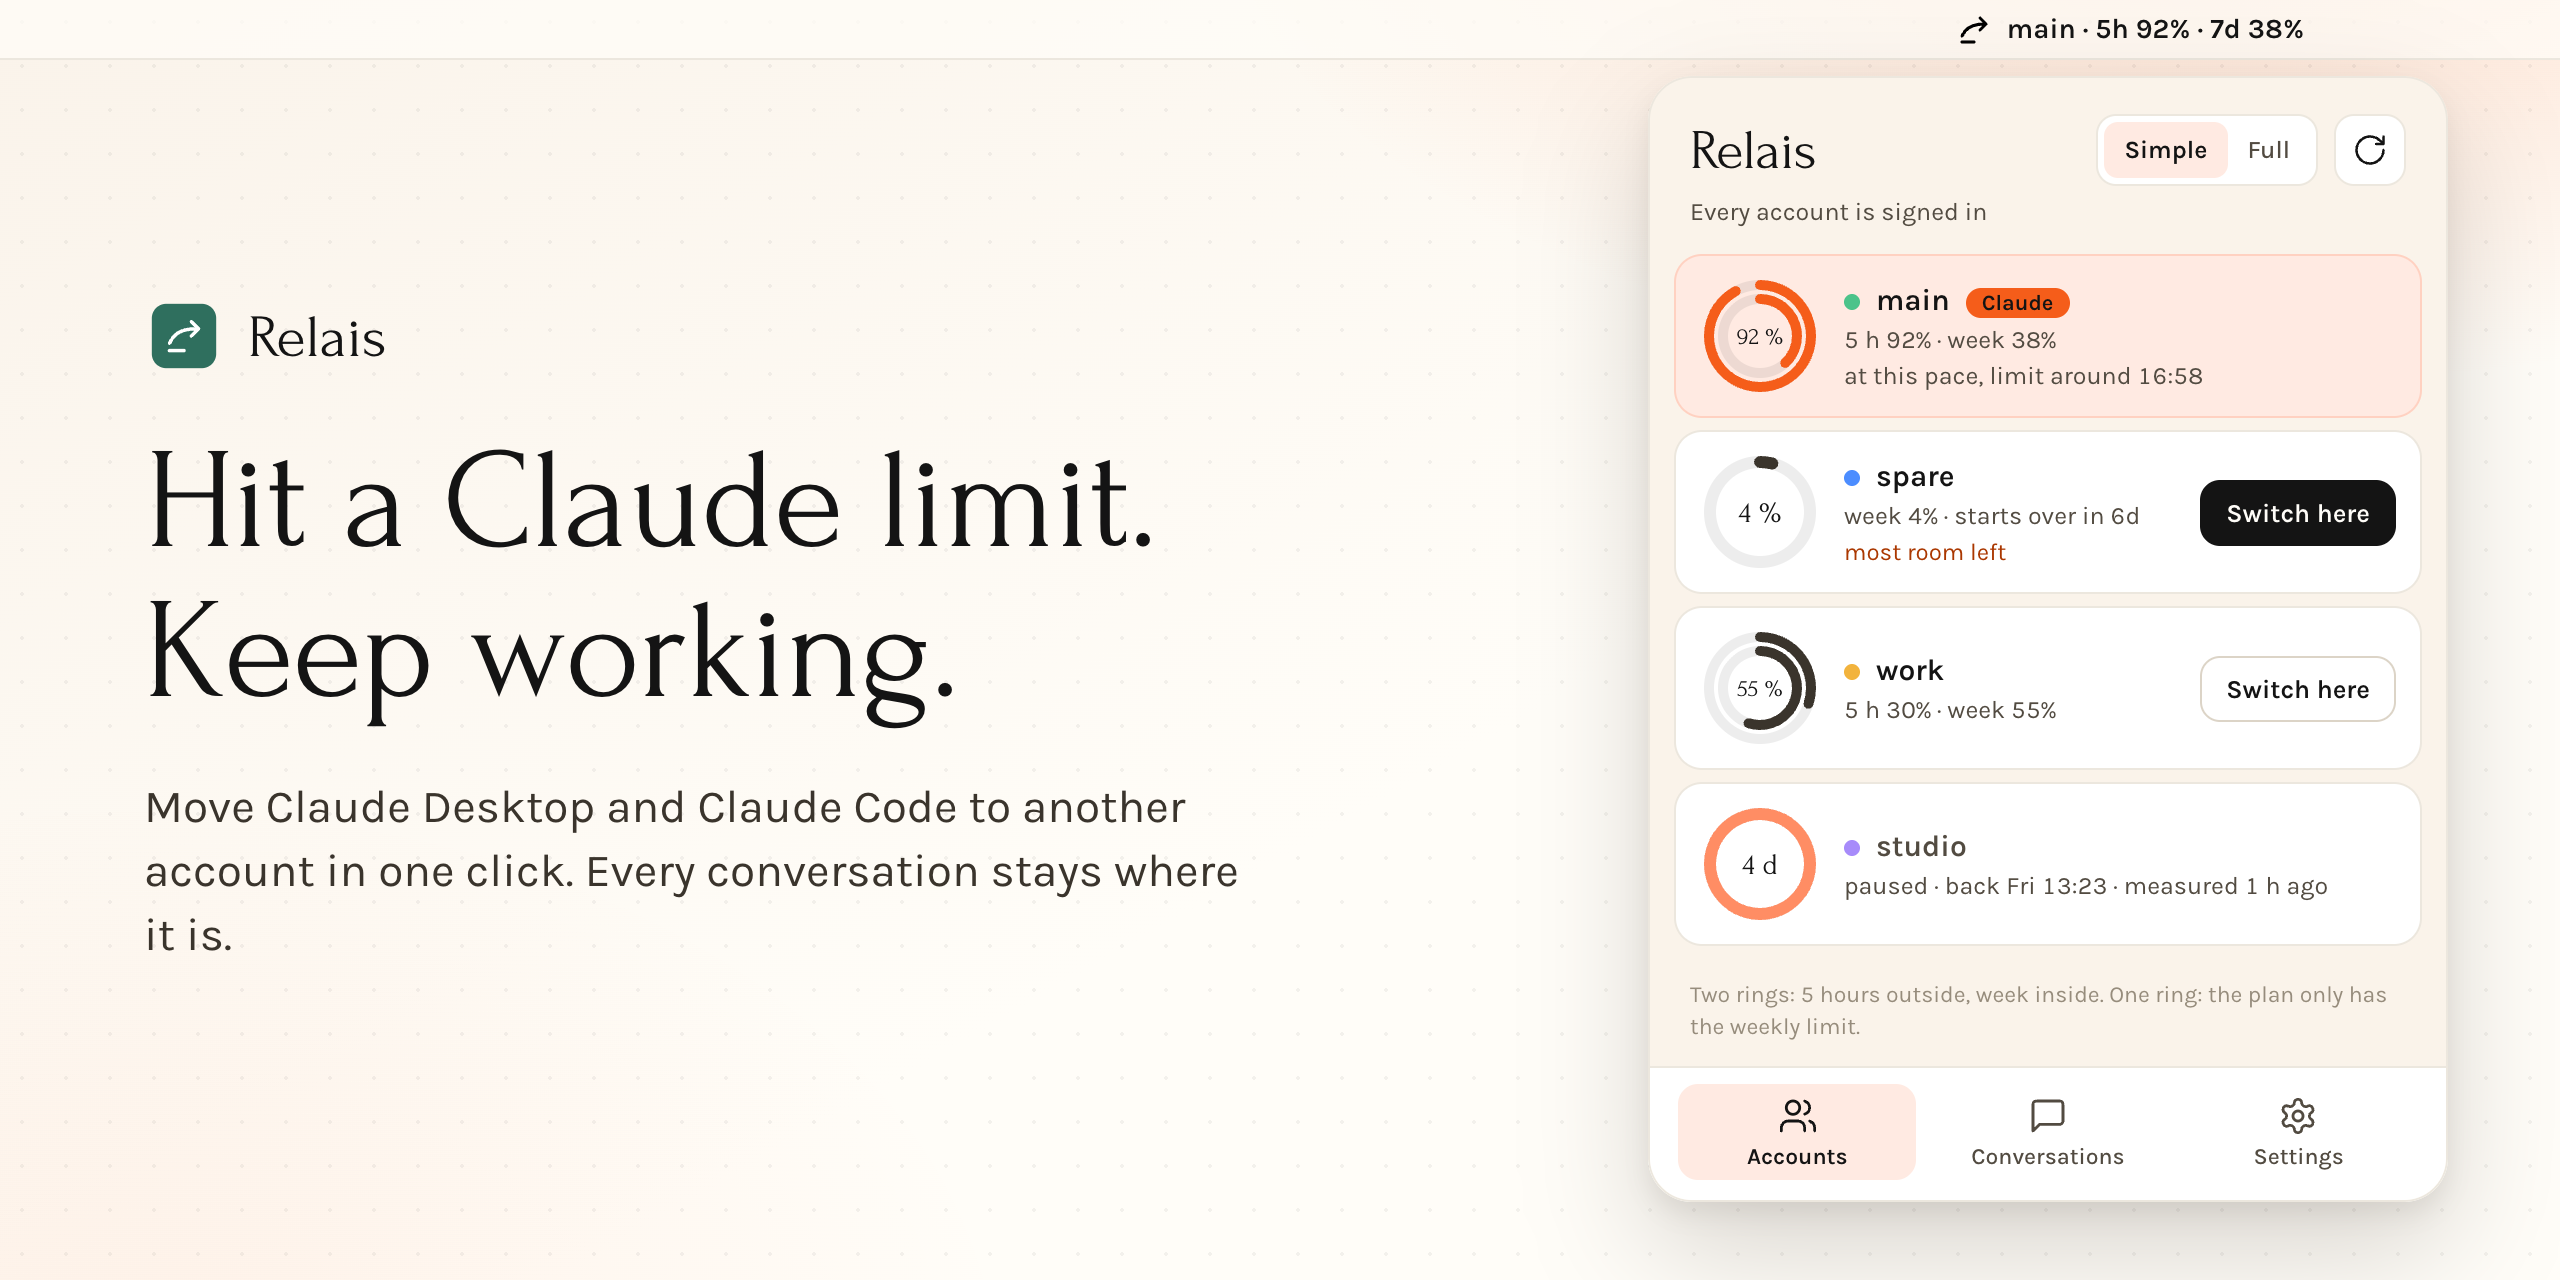
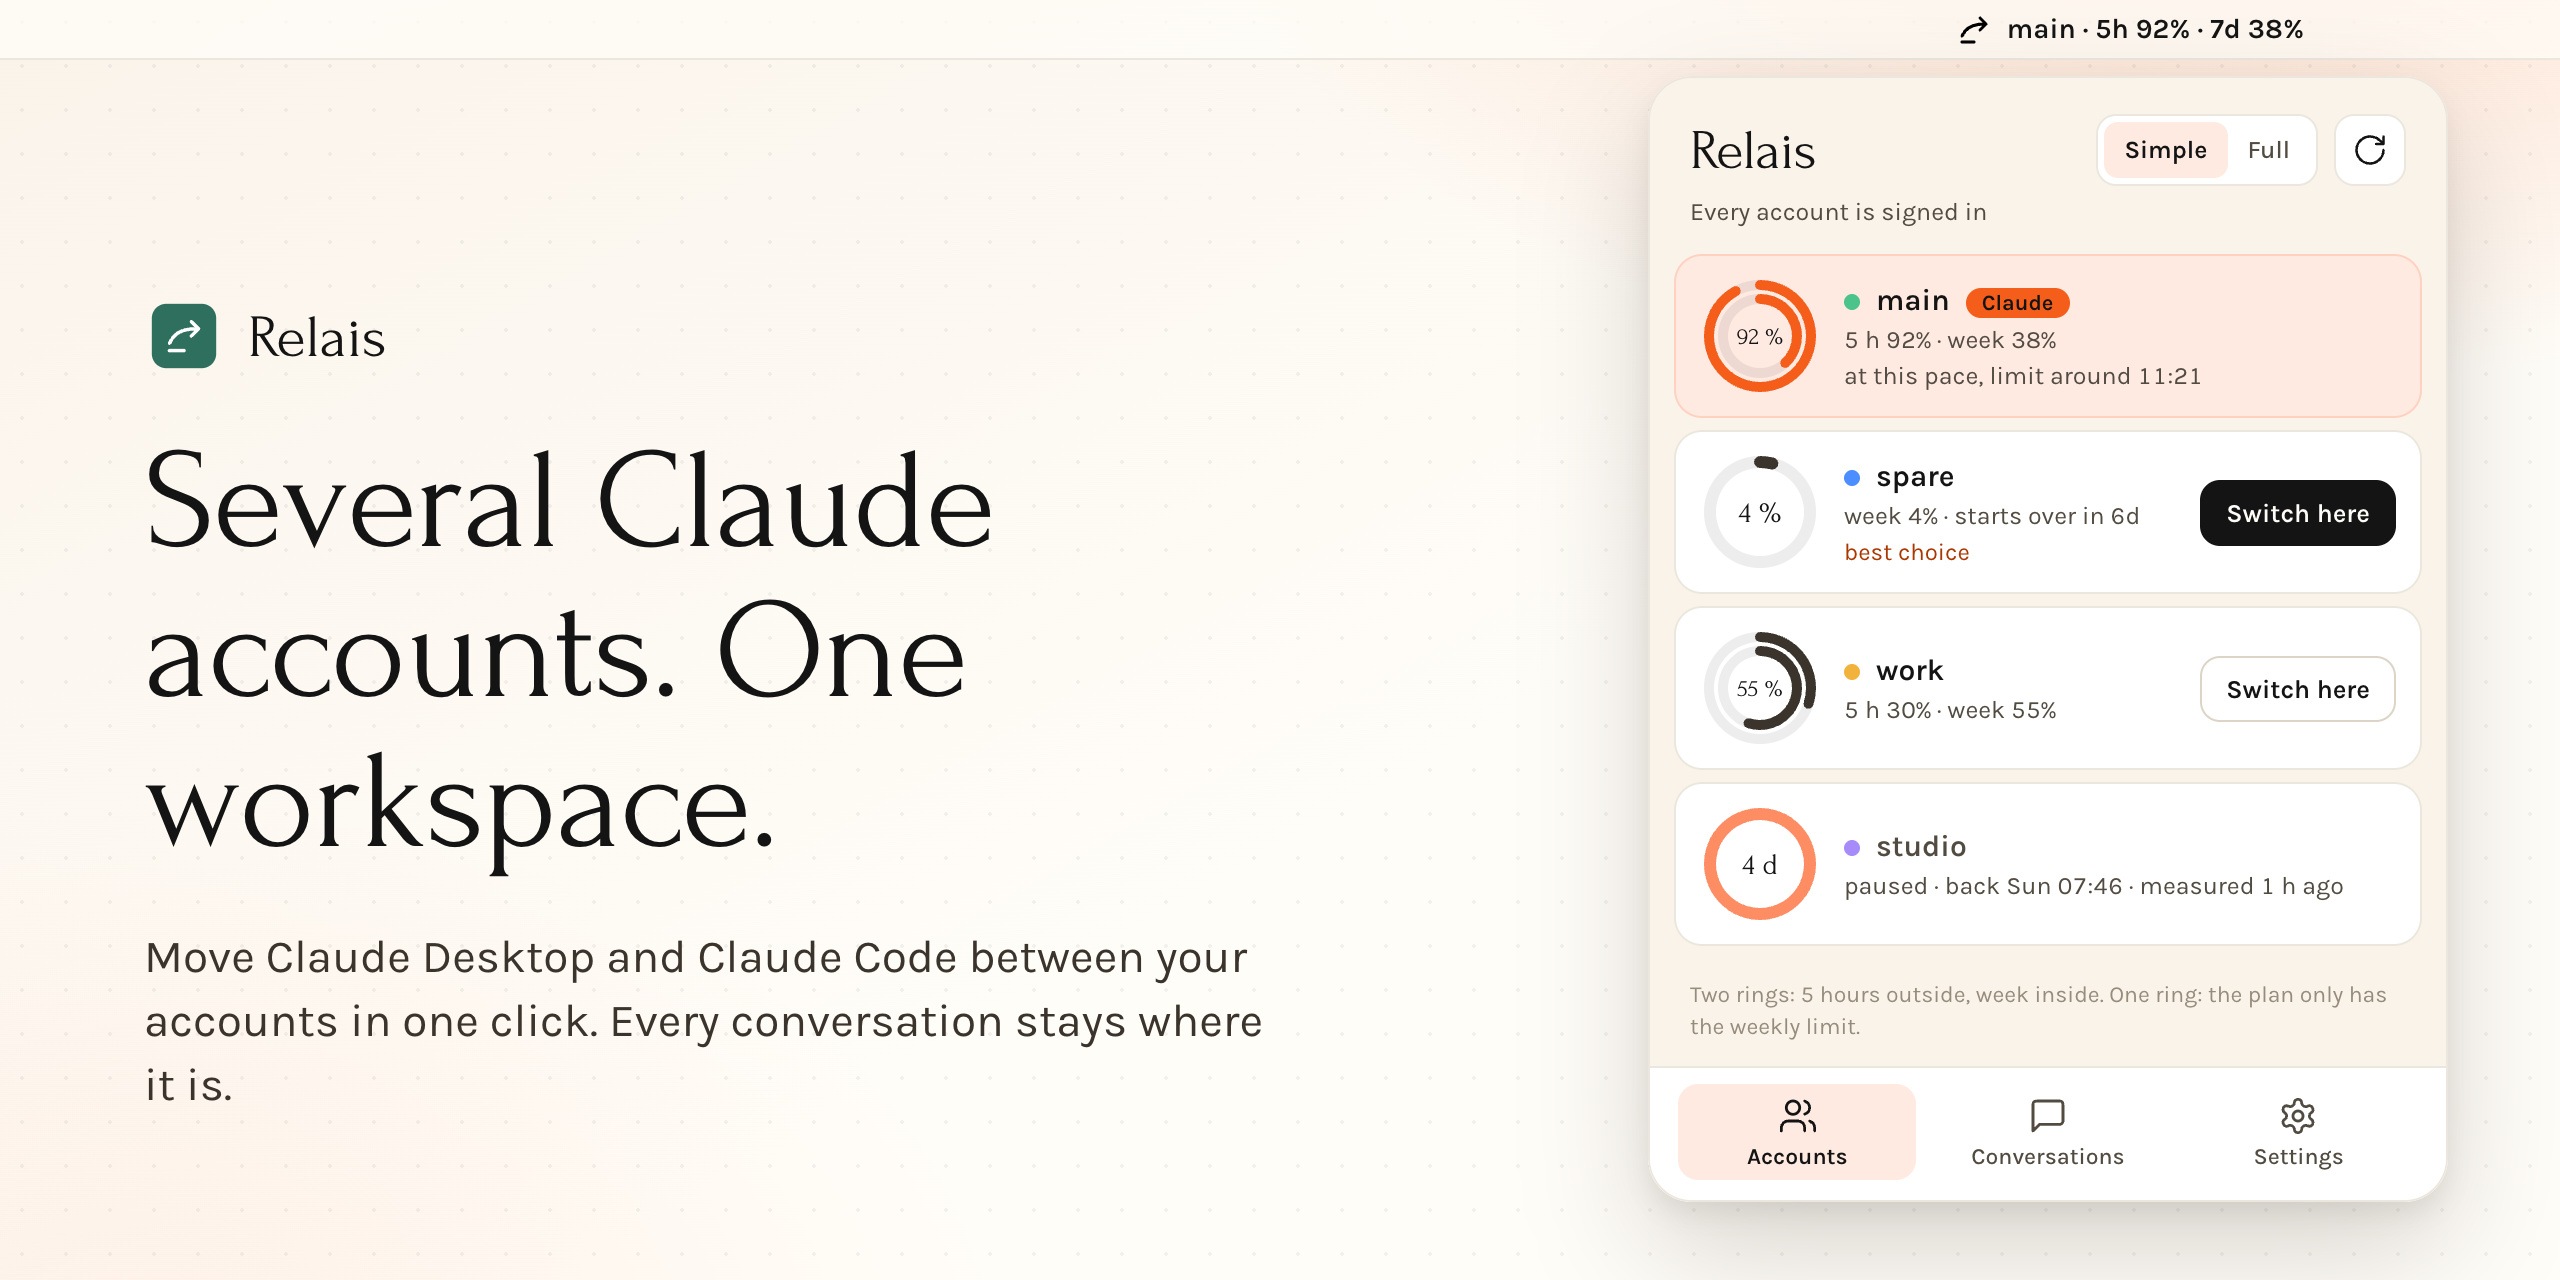
Say what Relais is for: several accounts, one workspace
The pitch was about reaching a limit and moving on. Relais is for anyone who
uses more than one Claude account on a Mac, and keeps their workspace when
they change account: the README, the website, its link previews and the
banner now say that. The banner and the link preview are captured again from
the preview's made-up accounts.

diff --git a/docs/index.html b/docs/index.html
@@ -4,7 +4,7 @@
     <meta charset="utf-8" />
     <meta name="viewport" content="width=device-width, initial-scale=1" />
     <title>Relais: Claude account switcher for Mac, free and open source</title>
-    <meta name="description" content="Switch Claude accounts on your Mac in one click. Relais moves Claude Desktop and Claude Code to another account and keeps every conversation and folder." />
+    <meta name="description" content="Use several Claude accounts on one Mac. Relais switches Claude Desktop and Claude Code in one click and keeps every conversation, pin and folder." />
     <link rel="canonical" href="https://bvisible.github.io/relais/" />
     <link rel="icon" href="assets/icon.svg" type="image/svg+xml" />
     <meta name="theme-color" content="#faf3ea" />
@@ -12,7 +12,7 @@
     <meta property="og:type" content="website" />
     <meta property="og:site_name" content="Relais" />
     <meta property="og:title" content="Relais: Claude account switcher for Mac" />
-    <meta property="og:description" content="Hit a Claude limit, keep working. One click moves Claude Desktop and Claude Code to another account, every conversation kept." />
+    <meta property="og:description" content="Several Claude accounts, one workspace. One click moves Claude Desktop and Claude Code to another account, every conversation kept." />
     <meta property="og:url" content="https://bvisible.github.io/relais/" />
     <meta property="og:image" content="https://bvisible.github.io/relais/assets/social-preview.png" />
     <meta property="og:image:width" content="1280" />
@@ -20,7 +20,7 @@
     <meta property="og:image:alt" content="Relais, a menu bar panel listing four Claude accounts with their usage limits" />
     <meta name="twitter:card" content="summary_large_image" />
     <meta name="twitter:title" content="Relais: Claude account switcher for Mac" />
-    <meta name="twitter:description" content="Hit a Claude limit, keep working. One click moves Claude Desktop and Claude Code to another account, every conversation kept." />
+    <meta name="twitter:description" content="Several Claude accounts, one workspace. One click moves Claude Desktop and Claude Code to another account, every conversation kept." />
     <meta name="twitter:image" content="https://bvisible.github.io/relais/assets/social-preview.png" />
 
     <script type="application/ld+json">
@@ -30,7 +30,7 @@
           {
             "@type": "SoftwareApplication",
             "name": "Relais",
-            "description": "A free, open-source Claude account switcher for macOS. One click moves Claude Desktop and Claude Code to another account and keeps every conversation, pin and folder.",
+            "description": "A free, open-source Claude account switcher for macOS. Use several Claude accounts on one Mac: one click moves Claude Desktop and Claude Code to another account and keeps every conversation, pin and folder.",
             "url": "https://bvisible.github.io/relais/",
             "sameAs": "https://github.com/bvisible/relais",
             "image": "https://bvisible.github.io/relais/assets/social-preview.png",
@@ -377,8 +377,8 @@
       <div class="wrap hero-grid">
         <div>
           <h1>Claude account switcher for Mac</h1>
-          <p class="display">Hit a Claude limit. Keep working.</p>
-          <p class="lead">When one subscription runs out, one click moves Claude Desktop and Claude Code to another account. Your conversations, pins and folders stay exactly where they are.</p>
+          <p class="display">Several accounts. One workspace.</p>
+          <p class="lead">Work, personal, a client's organization: one click moves Claude Desktop and Claude Code to the account you need. Your conversations, pins and folders stay exactly where they are.</p>
           <a class="button" href="https://github.com/bvisible/relais/releases/latest">Download for Mac</a>
           <p class="assurance">Free and open source · Notarized by Apple · No credential touched</p>
         </div>

diff --git a/app/scripts/hero.html b/app/scripts/hero.html
@@ -109,8 +109,8 @@
       </div>
       <div class="words">
         <div class="name"><img src="../assets/app-icon.svg" alt="" />Relais</div>
-        <h1>Hit a Claude limit. Keep working.</h1>
-        <p>Move Claude Desktop and Claude Code to another account in one click. Every conversation stays where it is.</p>
+        <h1>Several Claude accounts. One workspace.</h1>
+        <p>Move Claude Desktop and Claude Code between your accounts in one click. Every conversation stays where it is.</p>
       </div>
       <img id="panel" alt="" />
     </div>

diff --git a/README.md b/README.md
@@ -2,9 +2,9 @@
   <img src="docs/assets/hero.png" alt="Relais, a Claude account switcher for Mac: the menu bar panel lists four Claude accounts with their 5-hour and weekly usage limits" width="100%">
 </p>
 
-# Relais: switch Claude accounts on your Mac and keep everything
+# Relais: several Claude accounts on one Mac, one workspace
 
-**Relais is a free, open-source Claude account switcher for macOS.** When one Claude subscription hits its usage limit, one click moves Claude Desktop and Claude Code to another account, and Desktop comes back exactly as you left it: the same conversations, pins, folders and settings.
+**Relais is a free, open-source Claude account switcher for macOS.** A work account, a personal subscription, a client's organization: one click moves Claude Desktop and Claude Code to the account you need, and Desktop comes back exactly as you left it: the same conversations, pins, folders and settings. Relais shows each account's usage limits at a glance, and never reads a password, a token or a cookie.
 
 <p align="center">
   <a href="LICENSE"><img src="https://img.shields.io/badge/license-MIT-141414" alt="MIT license"></a>
@@ -20,7 +20,7 @@
 
 ## Why Relais
 
-If you run several Claude accounts on one Mac (Claude Pro, Claude Max, a work account), reaching a limit normally costs you your place. Claude Desktop files its conversation list, pins and folders under the signed-in account, so signing in to another one shows you a different workspace.
+If you use more than one Claude account on the same Mac (Claude Pro, Claude Max, a work account), changing account normally costs you your place. Claude Desktop files its conversation list, pins and folders under the signed-in account, so signing in to another one shows you a different workspace.
 
 Relais keeps one workspace and changes only the sign-in:
 
@@ -157,7 +157,7 @@ No. It never opens them. The only thing it reads from a sign-in file is the acco
 
 It reads the figures Claude Code already gives its status line, the history Claude Desktop keeps, and the official `/usage` panel every quarter of an hour. A reading that stops updating says how old it is, and the advice ignores it once it is too old to go by.
 
-### Does it switch automatically when I hit the limit?
+### Does it switch accounts by itself?
 
 No. A ring turns orange as an account fills up and Relais marks the best one to go to, but the switch is yours.
 

diff --git a/docs/design.md b/docs/design.md
@@ -4,7 +4,7 @@ Status: built, and checked by a real switch between two accounts on 2026-11-01.
 
 ## Intent
 
-When an account runs out, the user clicks one button and Claude Desktop comes back on another account
+When the user changes account, they click one button and Claude Desktop comes back on the other account
 **exactly as it was**: the same conversations in the sidebar, the same pinned ones in the same order, the
 same folders in the same order and folded the same way, the same open panes and window. Nothing to put back
 by hand, ever.
